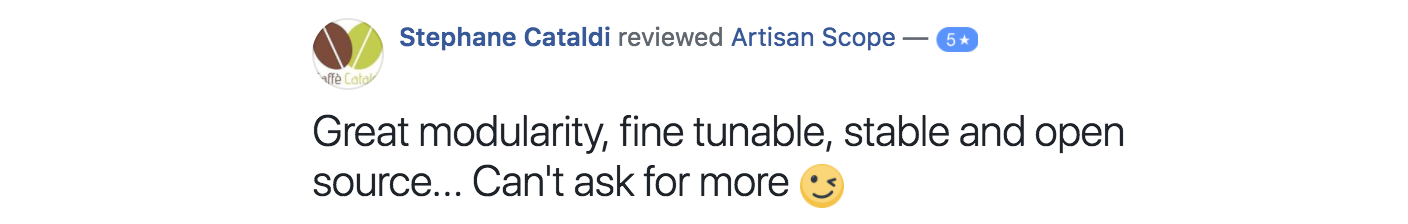
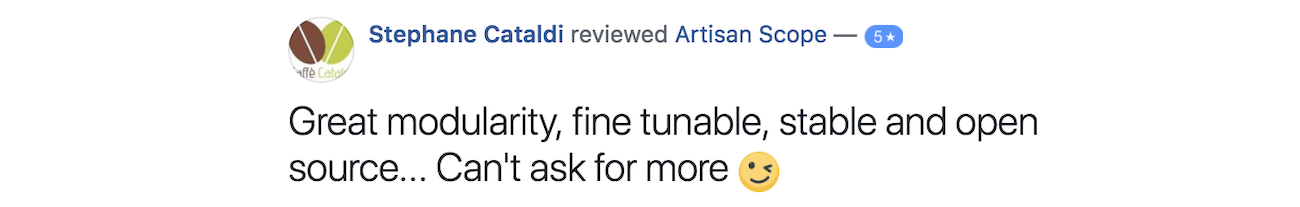
webp for testimonials part 1

diff --git a/index.html b/index.html
@@ -7,7 +7,7 @@ header:
   overlay_image: /assets/images/teaser.jpg
   show_overlay_title: false
   caption: #'doubleshot'
-excerpt: 'v3.2.0{::nomarkdown}<iframe style="display: inline-block;"  frameborder="0" scrolling="0" width="60px" height="120px"></iframe>{:/nomarkdown}'
+excerpt: 'v3.2.0{::nomarkdown}<iframe title="Artisan Version" style="display: inline-block;"  frameborder="0" scrolling="0" width="60px" height="120px"></iframe>{:/nomarkdown}'
 feature_row:
   - image_path: /assets/images/sliders.png
     alt: "Automation"
@@ -38,10 +38,6 @@ intro:
 &ensp; [Shop](https://shop.artisan.plus/){: .btn .btn--success .btn--large}{:target="_blank"}
 <BR>
 <BR>'
-gallery1:
-  - url: /assets/images/testimonial-paolo.png
-    image_path: /assets/images/testimonial-paolo.png
-    alt: "testimonial paolo"
 gallery2:
   - url: /assets/images/testimonial-elvio.png
     image_path: /assets/images/testimonial-elvio.png
@@ -57,10 +53,6 @@ gallery3:
     image_path: /assets/images/testimonial-brian.png
     alt: "testimonial brian"
 gallery4:
-  - url: /assets/images/testimonial-stephane.png
-    image_path: /assets/images/testimonial-stephane.png
-    alt: "testimonial stephane"
-gallery5:
   - url: /assets/images/testimonial-dan.png
     image_path: /assets/images/testimonial-dan.png
     alt: "testimonial dan"
@@ -71,10 +63,25 @@ gallery5:
 
 {% include feature_row %}
 
-{% include gallery id="gallery1" %}
-{% include gallery id="gallery2" %}
-{% include gallery id="gallery5" %}
-{% include gallery id="gallery3" %}
-{% include gallery id="gallery4" %}
 
-<a rel="me" href="https://masto.ai/@artisan"></a>
+<figure class=" ">
+<a target="_blank" href="/assets/images/testimonial-paolo.png"
+<picture>
+  <source srcset="/assets/images/testimonial-paolo.webp" 1300w" type="image/webp">
+  <img src="/assets/images/testimonial-paolo.png" alt="testimonial paolo" loading="lazy" decoding="async">
+</picture>
+</a>
+</figure>
+
+{% include gallery id="gallery2" %}
+{% include gallery id="gallery4" %}
+{% include gallery id="gallery3" %}
+
+<figure class=" ">
+<a target="_blank" href="/assets/images/testimonial-stephane.png"
+<picture>
+  <source srcset="/assets/images/testimonial-stephane.webp" 1300w" type="image/webp">
+  <img src="/assets/images/testimonial-stephane.png" alt="testimonial stephane" loading="lazy" decoding="async">
+</picture>
+</a>
+</figure>
